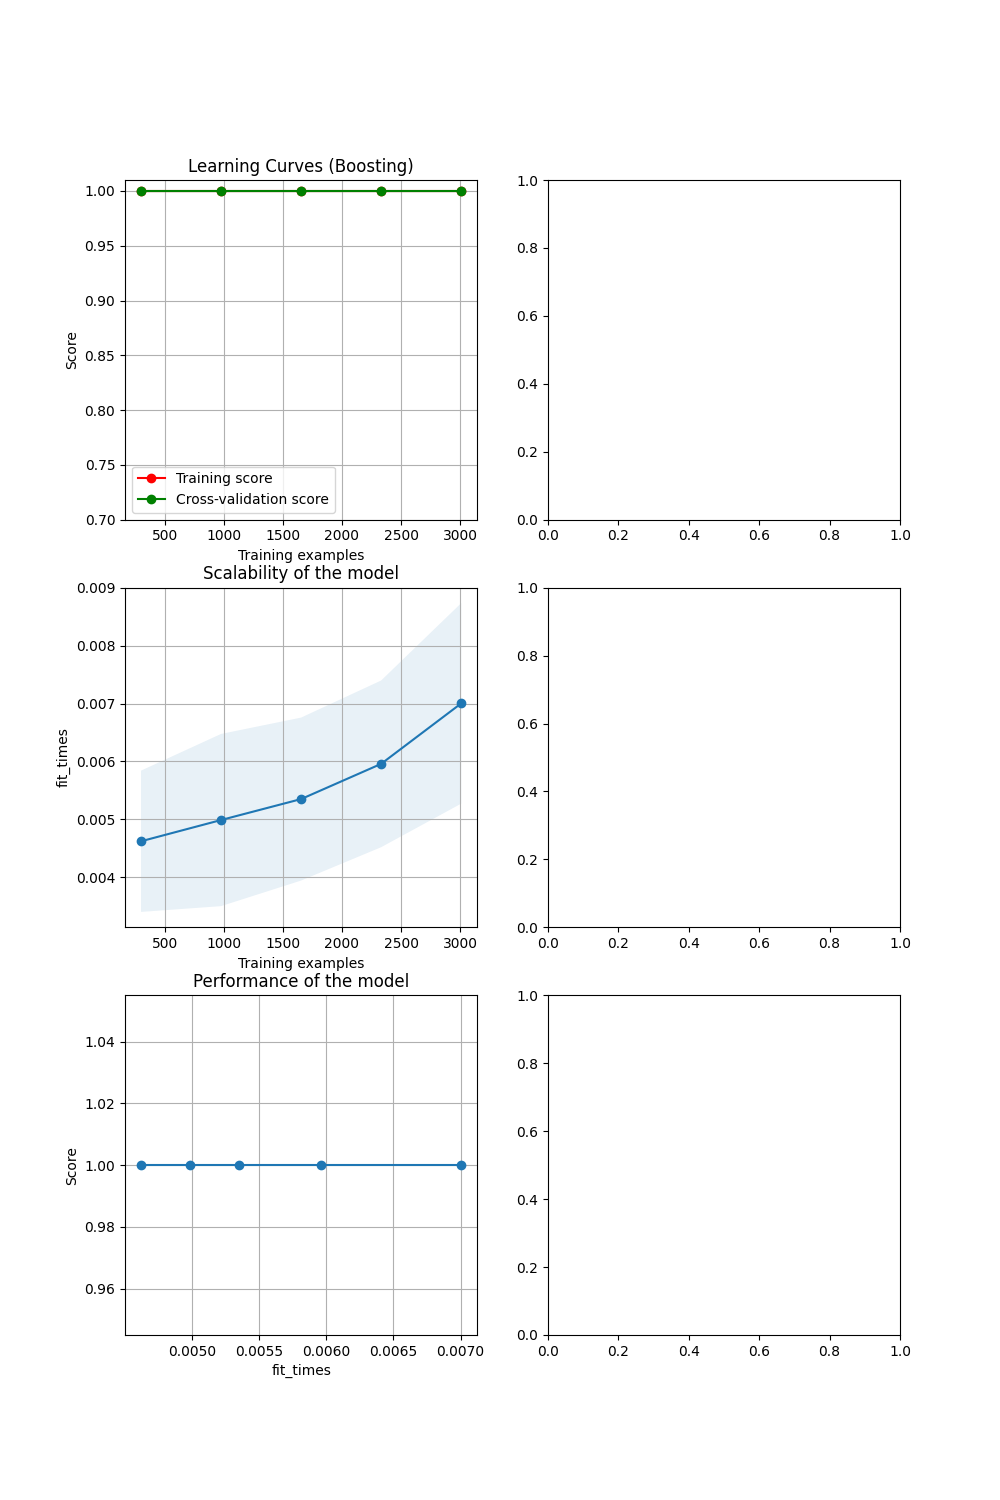
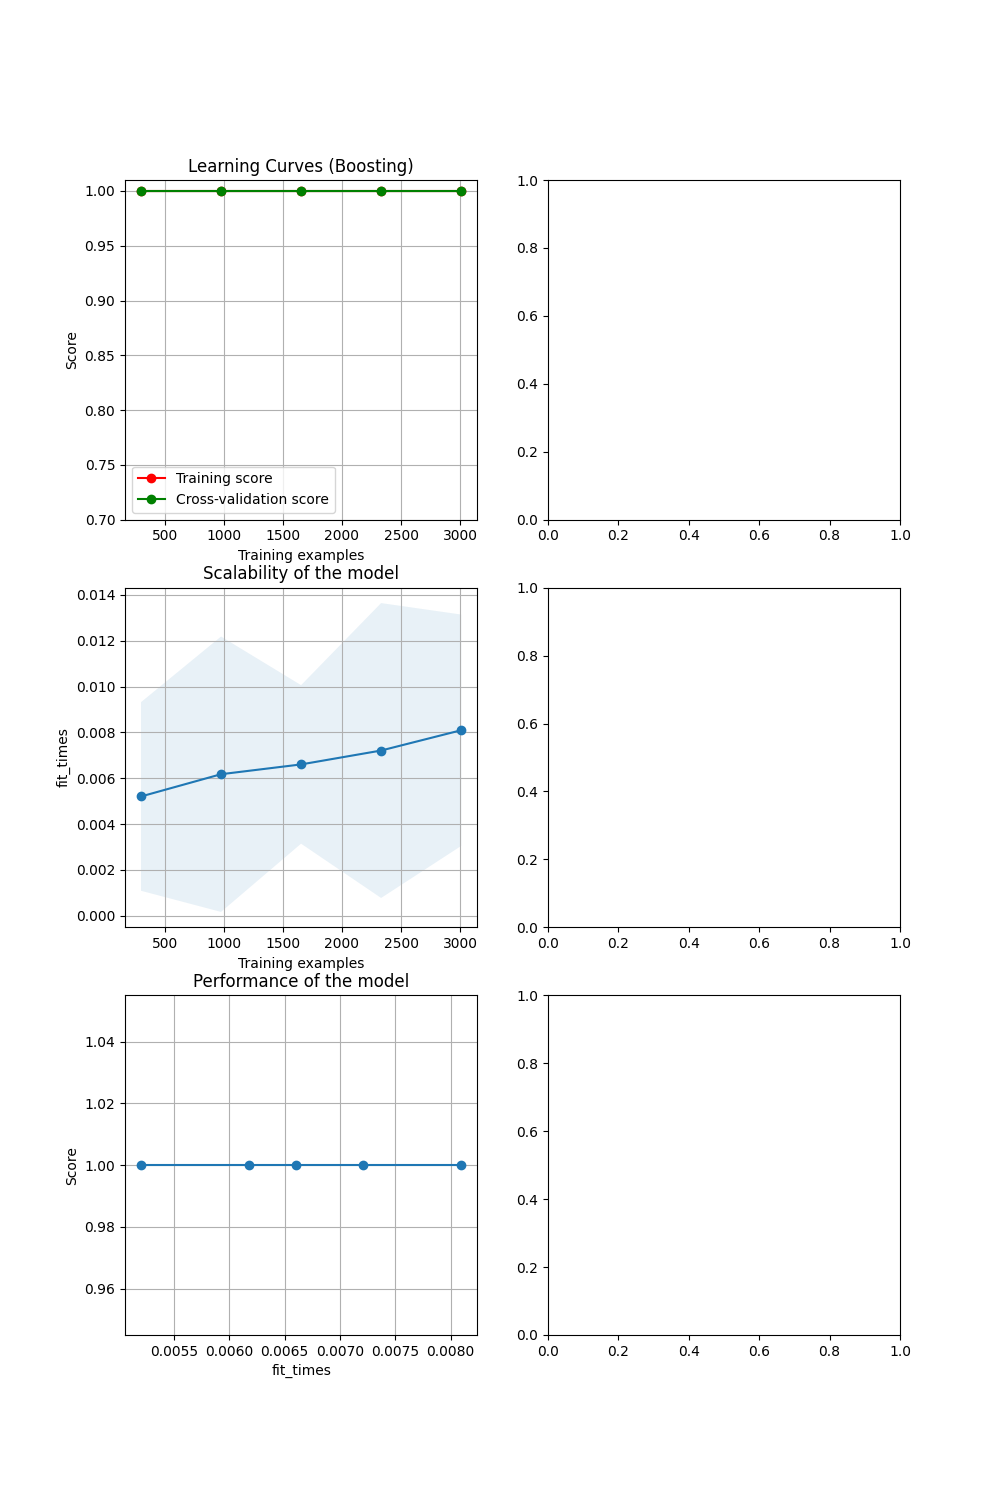
update run

diff --git a/run.py b/run.py
@@ -71,11 +71,11 @@ corr_matrix = dataset.corr()
 print(corr_matrix[y_col].sort_values(ascending=False))
 
 classifiers = [
-    # DecisionTree(),
-    # KNN(),
-    # Boosting(),
+    DecisionTree(),
+    KNN(),
+    Boosting(),
     NeuralNetwork(),
-    # SVM()
+    SVM()
 ]
 
 for model in classifiers:
@@ -123,25 +123,25 @@ for model in classifiers:
         learning curve
         - plots of the model performance on training and validation sets as a function of the training set size (or iteration). train model several times on different sized subsets of the training set.
         '''
-        # fig, axes = plt.subplots(3, 2, figsize=(10, 15))
+        fig, axes = plt.subplots(3, 2, figsize=(10, 15))
         title = f'Learning Curves ({label})'
         # Cross validation with 100 iterations to get smoother mean test and train
         # score curves, each time with 20% data randomly selected as a validation set.
         cv = ShuffleSplit(n_splits=100, test_size=0.2, random_state=0)
 
         estimator = pipe
-        # plot_learning_curve(
-        #     estimator,
-        #     title,
-        #     x_all,
-        #     y_all,
-        #     axes=axes[:, 0],
-        #     ylim=(0.7, 1.01),
-        #     cv=cv,
-        #     n_jobs=4
-        # )
+        plot_learning_curve(
+            estimator,
+            title,
+            x_all,
+            y_all,
+            axes=axes[:, 0],
+            ylim=(0.7, 1.01),
+            cv=cv,
+            n_jobs=4
+        )
 
-        # fig.savefig(f'figures/{loader.data_name}_{name}_learning_curve')
+        fig.savefig(f'figures/{loader.data_name}_{name}_learning_curve')
 
         # title = r"Learning Curves (SVM, RBF kernel, $\gamma=0.001$)"
         # # SVC is more expensive so we do a lower number of CV iterations:
@@ -149,7 +149,7 @@ for model in classifiers:
         # estimator = SVC(gamma=0.001)
         # plot_learning_curve(estimator, title, X, y, axes=axes[:, 1], ylim=(0.7, 1.01),
         #                     cv=cv, n_jobs=4)
-        # plt.show()
+        plt.show()
 
         '''
         change threshold for predicting (last attempt to improve performance)
@@ -176,13 +176,13 @@ for model in classifiers:
 
         print('Testing Score', pipe.score(x_test, y_test))
 
-# dtclass = classifiers[0]
-# dtclass.plot_alpha_accuracy(x_train, y_train, x_test, y_test)
+dtclass = classifiers[0]
+dtclass.plot_alpha_accuracy(x_train, y_train, x_test, y_test)
 
-# knnclass = classifiers[0]
-# knnclass.plot(x_train, y_train, x_test, y_test)
+knnclass = classifiers[1]
+knnclass.plot(x_train, y_train, x_test, y_test)
 
-# nnclass = classifiers[0]
-# nnclass.plot(x_train, y_train, x_test, y_test)
+nnclass = classifiers[3]
+nnclass.plot(x_train, y_train, x_test, y_test)
 
 

diff --git a/decision_tree/decision_tree_train.py b/decision_tree/decision_tree_train.py
@@ -36,7 +36,7 @@ class DecisionTree:
 
     def get_classifer(self, x, y):
         ccp_alphas = self.get_ccp_alphas(x, y)
-        print('num of ccp alphas ', len(ccp_alphas))
+        # print('num of ccp alphas ', len(ccp_alphas))
         dtrees = []
         ccp_alphas = [0.003]
         for ccp_alpha in ccp_alphas:

diff --git a/knn/knn_train.py b/knn/knn_train.py
@@ -61,5 +61,5 @@ class KNN:
                 drawstyle="steps-post")
         fig.savefig('figures/knn_accuracy.png')
         ax.legend()
-        # plt.show()
+        plt.show()
 
